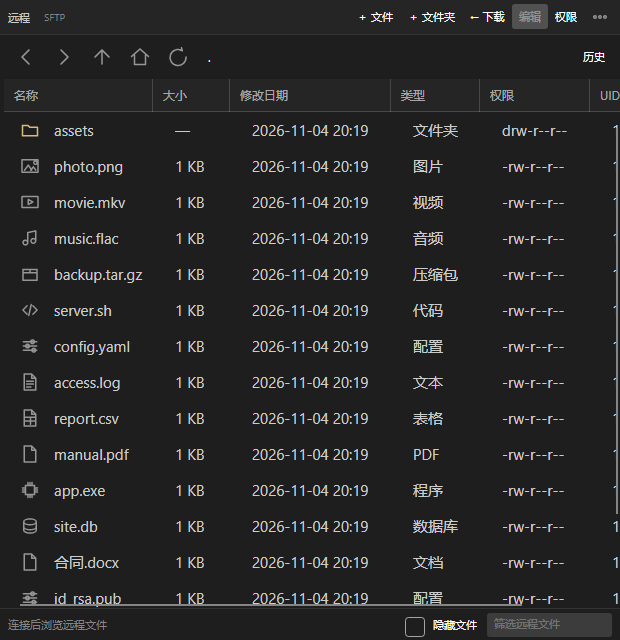
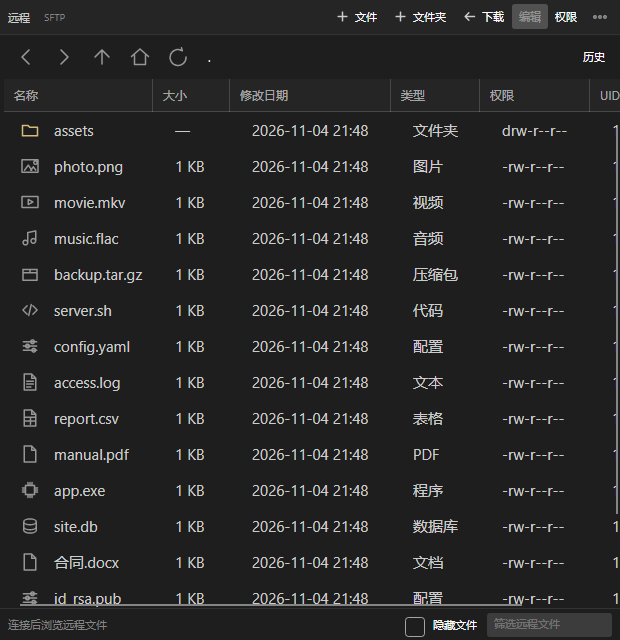
feat: 字体图标全部替换为矢量线条图标，文本编辑器改为非模态标签页

diff --git a/src/ShellX.Desktop/Services/DialogService.cs b/src/ShellX.Desktop/Services/DialogService.cs
@@ -13,6 +13,7 @@ using ShellX.Core.Tunnels;
 using ShellX.Core.Sessions;
 using ShellX.Core.Security;
 using Avalonia.Threading;
+using CommunityToolkit.Mvvm.Input;
 using ShellX.Desktop.Features.Connections;
 using ShellX.Desktop.Features.FileBrowser;
 using ShellX.Desktop.Features.FileEditor;
@@ -242,11 +243,121 @@ public sealed class DialogService(ITextCodec codec, AppLockService? appLock = nu
             FileTypeChoices = [new FilePickerFileType("ShellX 配置（JSON）") { Patterns = ["*.json"] }]
         }))?.TryGetLocalPath();
 
+    private Window? _editorWindow;
+    private TabControl? _editorTabControl;
+    private readonly Dictionary<TabItem, EditorTabState> _editorStates = [];
+
+    private sealed class EditorTabState(TextDocument document, FileEditorViewModel vm, Action detach)
+    {
+        public TextDocument Document { get; } = document;
+        public FileEditorViewModel Vm { get; } = vm;
+        public Action Detach { get; } = detach;
+        public string Name => System.IO.Path.GetFileName(Document.Path);
+    }
+
+    /// <summary>
+    /// 文本编辑器改为非模态标签页：全局只保留一个编辑器窗口，再次点击“编辑文本”直接新增标签。
+    /// 任务在窗口/标签打开后即完成，不再阻塞文件列表继续打开其他文件。
+    /// </summary>
     public async Task EditFileAsync(TextDocument document, Func<TextDocument, string, Task<TextDocument>> save)
     {
         TextEditorLimits.ValidateContent(document.Content);
+        if (_editorWindow is { } existing && existing.IsVisible && _editorTabControl is { } existingTabs)
+        {
+            var opened = _editorStates.FirstOrDefault(pair => Equals(pair.Value.Document.Path, document.Path));
+            if (opened.Value != null) existingTabs.SelectedItem = opened.Key;
+            else AddEditorTab(existing, existingTabs, document, save);
+            await Task.CompletedTask;
+            return;
+        }
+
+        var window = Window("编辑 · " + document.Path, 1050, 720);
+        window.MinWidth = 780;
+        var tabs = new TabControl();
+        window.Content = tabs;
+        _editorWindow = window;
+        _editorTabControl = tabs;
+        AddEditorTab(window, tabs, document, save);
+        tabs.SelectionChanged += (_, _) => ActivateEditorTab(window, tabs);
+
+        var approved = false;
+        window.Closing += async (_, e) =>
+        {
+            if (approved) { DetachEditorTabs(); return; }
+            var dirty = _editorStates.Values.Count(state => state.Vm.IsDirty);
+            if (dirty == 0) { DetachEditorTabs(); return; }
+            e.Cancel = true;
+            var message = dirty == 1
+                ? "关闭将放弃当前文件的未保存修改，是否继续？"
+                : $"有 {dirty} 个文件尚未保存，关闭将放弃这些修改，是否继续？";
+            if (await ConfirmOwnedAsync(window, "未保存的修改", message)) { approved = true; window.Close(); }
+        };
+        window.Closed += (_, _) => { DetachEditorTabs(); _editorWindow = null; _editorTabControl = null; };
+        window.KeyBindings.Add(new KeyBinding
+        {
+            Gesture = new KeyGesture(Key.S, KeyModifiers.Control),
+            Command = new RelayCommand(() => { if (ActiveEditorTab(tabs) is { } state) _ = state.Vm.SaveCommand.ExecuteAsync(null); })
+        });
+        window.Show(DialogOwner); // 非模态：不阻塞调用方，窗口与标签自行管理生命周期
+        await Task.CompletedTask;
+    }
+
+    private EditorTabState? ActiveEditorTab(TabControl tabs)
+        => tabs.SelectedItem is TabItem selected && _editorStates.TryGetValue(selected, out var state)
+            ? state
+            : _editorStates.Values.LastOrDefault();
+
+    private void ActivateEditorTab(Window window, TabControl tabs)
+    {
+        if (ActiveEditorTab(tabs) is not { } state) return;
+        window.Title = "编辑 · " + state.Document.Path;
+        window.DataContext = state.Vm;
+    }
+
+    private void DetachEditorTabs()
+    {
+        foreach (var state in _editorStates.Values.ToArray())
+        {
+            try { state.Detach(); }
+            catch (Exception) { }
+        }
+        _editorStates.Clear();
+    }
+
+    private Control BuildEditorTabHeader(Window window, TabControl tabs, TabItem tab, FileEditorViewModel vm, TextDocument document)
+    {
+        var label = new TextBlock
+        {
+            Text = System.IO.Path.GetFileName(document.Path),
+            VerticalAlignment = VerticalAlignment.Center,
+            MaxWidth = 210,
+            TextTrimming = TextTrimming.CharacterEllipsis
+        };
+        ToolTip.SetTip(label, document.Path);
+        var close = new Button { Padding = new Thickness(4, 2) };
+        close.Classes.Add("flat");
+        close.Content = new StrokeIcon { Symbol = "close", Width = 11, Height = 11 };
+        ToolTip.SetTip(close, "关闭标签");
+        close.Click += async (_, _) =>
+        {
+            if (!_editorStates.TryGetValue(tab, out var state)) return;
+            if (state.Vm.IsDirty && !await ConfirmOwnedAsync(window, "未保存的修改", $"关闭将放弃 {state.Name} 的未保存修改，是否继续？")) return;
+            _editorStates.Remove(tab);
+            try { state.Detach(); }
+            catch (Exception) { }
+            tabs.Items.Remove(tab);
+            if (tabs.Items.Count == 0) window.Close();
+            else ActivateEditorTab(window, tabs);
+        };
+        var panel = new StackPanel { Orientation = Orientation.Horizontal, Spacing = 6 };
+        panel.Children.Add(label);
+        panel.Children.Add(close);
+        return panel;
+    }
+
+    private void AddEditorTab(Window window, TabControl tabs, TextDocument document, Func<TextDocument, string, Task<TextDocument>> save)
+    {
         var vm = new FileEditorViewModel(document, save, codec);
-        var window = Window("编辑 · " + document.Path, 1050, 720); window.MinWidth = 780; window.DataContext = vm;
         var root = new DockPanel();
         var header = new StackPanel { Spacing = 9, Margin = new Thickness(16, 10) };
         var saveRow = new DockPanel { LastChildFill = true };
@@ -312,17 +423,14 @@ public sealed class DialogService(ITextCodec codec, AppLockService? appLock = nu
             if (change.PropertyName == nameof(vm.Content) && input.Text != vm.Content) input.Text = vm.Content;
             if (change.PropertyName == nameof(vm.SelectedSyntax)) input.SyntaxHighlighting = vm.SelectedSyntax.Highlighting;
         };
-        root.Children.Add(input); window.Content = root;
-        window.KeyBindings.Add(new KeyBinding { Gesture = new KeyGesture(Key.S, KeyModifiers.Control), Command = vm.SaveCommand });
-        var approved = false;
-        window.Closing += async (_, e) =>
-        {
-            if (approved || !vm.IsDirty) return;
-            e.Cancel = true;
-            if (await ConfirmOwnedAsync(window, "未保存的修改", "关闭将放弃当前文件的未保存修改，是否继续？")) { approved = true; window.Close(); }
-        };
-        try { await window.ShowDialog(DialogOwner); }
-        finally { if (appLock != null) appLock.SettingsChanged -= ApplyEditorFont; }
+        root.Children.Add(input);
+        var tab = new TabItem { Content = root };
+        tab.Header = BuildEditorTabHeader(window, tabs, tab, vm, document);
+        void Detach() { if (appLock != null) appLock.SettingsChanged -= ApplyEditorFont; }
+        _editorStates[tab] = new EditorTabState(document, vm, Detach);
+        tabs.Items.Add(tab);
+        tabs.SelectedItem = tab;
+        ActivateEditorTab(window, tabs);
     }
     private async Task<bool> ConfirmOwnedAsync(Window owner, string title, string message)
     {

diff --git a/tests/ShellX.Desktop.Tests/FileEditorTests.cs b/tests/ShellX.Desktop.Tests/FileEditorTests.cs
@@ -93,6 +93,51 @@ public sealed class FileEditorTests
         finally { window.Close(); await editing; owner.Close(); Directory.Delete(root, true); }
     }
 
+    [AvaloniaFact]
+    public async Task OpeningAnotherFileAddsATabToTheSameNonModalEditorWindow()
+    {
+        var codec = new TextCodec();
+        var owner = new Window(); owner.Show();
+        var dialog = new DialogService(codec) { Owner = owner };
+        var first = dialog.EditFileAsync(new("/etc/app.conf", "one", 3, DateTime.UtcNow), (document, _) => Task.FromResult(document));
+        var second = dialog.EditFileAsync(new("/etc/nginx.conf", "two", 3, DateTime.UtcNow), (document, _) => Task.FromResult(document));
+        Window? window = null;
+        try
+        {
+            // 非模态：两次打开都在窗口出现后立即完成，不等用户关闭。
+            await first.WaitAsync(TimeSpan.FromSeconds(5));
+            await second.WaitAsync(TimeSpan.FromSeconds(5));
+            window = Assert.Single(owner.OwnedWindows);
+            await Task.Delay(40);
+            var tabs = window.GetVisualDescendants().OfType<TabItem>().ToArray();
+            Assert.Equal(2, tabs.Length);
+            Assert.Contains(window.GetVisualDescendants().OfType<TextBlock>(), t => t.Text == "nginx.conf");
+            Assert.IsType<FileEditorViewModel>(window.DataContext);
+            Assert.EndsWith("nginx.conf", window.Title);
+
+            // 同一个文件再次点击只聚焦已有标签。
+            var third = dialog.EditFileAsync(new("/etc/nginx.conf", "two", 3, DateTime.UtcNow), (document, _) => Task.FromResult(document));
+            await third.WaitAsync(TimeSpan.FromSeconds(5));
+            Assert.Equal(2, window.GetVisualDescendants().OfType<TabItem>().Count());
+
+            if (Environment.GetEnvironmentVariable("SHELLX_PREVIEW_PATH") is { Length: > 0 } preview)
+            {
+                await Task.Delay(50);
+                using var bitmap = new RenderTargetBitmap(new PixelSize((int)window.Bounds.Width, (int)window.Bounds.Height), new Vector(96, 96));
+                bitmap.Render(window);
+                bitmap.Save(Path.Combine(Path.GetDirectoryName(preview)!, "editor-tabs.png"), PngBitmapEncoderOptions.Default);
+            }
+            // 关闭窗口即结束，不再残留编辑器窗口。
+            window.Close();
+            await Task.Delay(40);
+            Assert.Empty(owner.OwnedWindows);
+        }
+        finally
+        {
+            foreach (var owned in owner.OwnedWindows.ToArray()) owned.Close();
+            owner.Close();
+        }
+    }
     [AvaloniaTheory]
     [InlineData("/app/config.json", "{\"name\":\"value\",\"count\":12,\"ok\":true}", "JSON", "Property", "String", "Keyword", "Number")]
     [InlineData("/app/config.xml", "<root name=\"value\"><child>text</child></root>", "XML", "Keyword", "Property", "String")]

diff --git a/src/ShellX.Desktop/Controls/StrokeIcon.cs b/src/ShellX.Desktop/Controls/StrokeIcon.cs
@@ -28,6 +28,21 @@ public class StrokeIcon : Control
         ["home"] = "M3.5,11.5 L12,4 L20.5,11.5 M6.5,10 V19.5 H17.5 V10",
         ["refresh"] = "M20,12 A8,8 0 1,1 16.2,5.7 M15.4,2.7 L16.4,5.8 L13.2,4.7",
         ["flow"] = "M8,18 V7 M4.5,10.5 L8,7 L11.5,10.5 M16,6 V17 M12.5,13.5 L16,17 L19.5,13.5",
+        ["folder"] = "M3,6.5 H9.5 L11.8,8.8 H21 V19 H3 Z",
+        ["tunnel"] = "M3,7 H16 M13,4 L16,7 L13,10 M21,17 H8 M11,14 L8,17 L11,20",
+        ["power"] = "M12,2.5 V11 M6.3,6.3 A8,8 0 1 0 17.7,6.3",
+        ["maximize"] = "M4,9 V4 H9 M15,4 H20 V9 M20,15 V20 H15 M9,20 H4 V15",
+        ["duplicate"] = "M8,8 H20 V20 H8 Z M16,16 V4 H4 V16",
+        ["close"] = "M6,6 L18,18 M18,6 L6,18",
+        ["settings"] = "M7.4,12 A4.6,4.6 0 1 0 16.6,12 A4.6,4.6 0 1 0 7.4,12 Z M10.2,12 A1.8,1.8 0 1 0 13.8,12 A1.8,1.8 0 1 0 10.2,12 Z M16.6,12 H18.9 M15.3,15.3 L16.9,16.9 M12,16.6 V18.9 M8.7,15.3 L7.1,16.9 M7.4,12 H5.1 M8.7,8.7 L7.1,7.1 M12,7.4 V5.1 M15.3,8.7 L16.9,7.1",
+        ["plus"] = "M12,5 V19 M5,12 H19",
+        ["download"] = "M20,12 H5 M11,6 L5,12 L11,18",
+        ["upload"] = "M4,12 H19 M13,6 L19,12 L13,18",
+        ["disk"] = "M3,7 H21 V17 H3 Z M3,11 H21 M6,14 H9",
+        ["layout"] = "M4,4 H20 V20 H4 Z M4,12 H20 M12,4 V20",
+        ["connections"] = "M4,5 H20 V11 H4 Z M4,13 H20 V19 H4 Z M7,8 H9 M7,16 H9",
+        ["down"] = "M5,12 L12,19 L19,12 M12,19 V5",
+        ["chevron-down"] = "M5,9 L12,16 L19,9",
         ["more"] = "M6,12 m-1.5,0 a1.5,1.5 0 1,0 3,0 a1.5,1.5 0 1,0 -3,0 M12,12 m-1.5,0 a1.5,1.5 0 1,0 3,0 a1.5,1.5 0 1,0 -3,0 M18,12 m-1.5,0 a1.5,1.5 0 1,0 3,0 a1.5,1.5 0 1,0 -3,0"
     };
     private static readonly Dictionary<string, Geometry> Cache = new(StringComparer.Ordinal);

diff --git a/src/ShellX.Desktop/Features/FileBrowser/DirectoryNodeViewModel.cs b/src/ShellX.Desktop/Features/FileBrowser/DirectoryNodeViewModel.cs
@@ -14,9 +14,14 @@ public partial class DirectoryNodeViewModel(string name, string path,
     public ObservableCollection<DirectoryNodeViewModel> Children { get; } = [];
     [ObservableProperty] private bool _isExpanded;
     [ObservableProperty] private bool _isLoading;
-    public string ExpanderText => IsLoading ? "…" : IsExpanded ? "⌄" : "›";
-    partial void OnIsExpandedChanged(bool value) => OnPropertyChanged(nameof(ExpanderText));
-    partial void OnIsLoadingChanged(bool value) => OnPropertyChanged(nameof(ExpanderText));
+    // 展开箭头改用线条图标；加载中仍显示省略号。
+    public bool ShowCollapsedIcon => !IsLoading && !IsExpanded;
+    public bool ShowExpandedIcon => !IsLoading && IsExpanded;
+    public bool ShowLoadingText => IsLoading;
+    partial void OnIsExpandedChanged(bool value)
+    { OnPropertyChanged(nameof(ShowCollapsedIcon)); OnPropertyChanged(nameof(ShowExpandedIcon)); }
+    partial void OnIsLoadingChanged(bool value)
+    { OnPropertyChanged(nameof(ShowLoadingText)); OnPropertyChanged(nameof(ShowCollapsedIcon)); OnPropertyChanged(nameof(ShowExpandedIcon)); }
 
     [RelayCommand]
     private async Task ToggleAsync()

diff --git a/src/ShellX.Desktop/Features/Transfers/TransferViewModel.cs b/src/ShellX.Desktop/Features/Transfers/TransferViewModel.cs
@@ -10,6 +10,9 @@ public partial class TransferViewModel(string name, string direction, long total
     private long _total = total;
     public string Name => name;
     public string Direction => direction;
+    // 传输方向用线条图标显示，标签去掉箭头字符（原来的方向文字是字体图标）。
+    public string DirectionIcon => direction.StartsWith('↑') ? "upload" : "download";
+    public string DirectionLabel => direction.Length > 1 && direction[0] is '↑' or '↓' ? direction[2..] : direction;
     public CancellationToken Token => _cancel.Token;
     [ObservableProperty] private double _percent;
     [ObservableProperty] private string _status = "等待中";

diff --git a/docs/verification.md b/docs/verification.md
@@ -405,3 +405,25 @@ bash: -c: line 21: syntax error near unexpected token `$'do\r''
 - SSH 夹具全量：`python tests/fixtures/ssh_server.py artifacts/ssh-fixture` 后带 `SHELLX_TEST_FIXTURE` 运行，**ShellX.Infrastructure.Tests 65 项全部通过**，覆盖双向转发字节回环、多监听端口对同一目标（要求精确连接数，验证中转不产生后台连接）、监听冲突、传输恢复、编辑/停止释放端口。
 - 夹具运行中 Desktop 有2项失败：`ConnectionTestTests.NewConnectionCanTestUnsavedForm…` 在**改动前的 HEAD（v1.0.5）同样失败**（同一行、同一断言），属既有问题与本次改动无关；`WorkspaceTests.RightClickEditsTheClickedLocalAndRemoteFile` 单独重跑通过（并发夹具负载下的偶发）。
 - 图标预览：`SHELLX_PREVIEW_PATH` 渲染 `artifacts/preview/file-icons-remote.png`、`file-icons-local.png`，工具栏与文件列表图标逐个核对；流量图标 `artifacts/preview/flow-icon.jpg`。隧道行的流量徽标未做真机截图（需要真实隧道跑流量），仅做了 XAML 编译与单元断言。
+## 字体图标全面替换与非模态标签编辑器（2026-11-04）
+
+### 图标
+
+- `StrokeIcon` 符号表补齐：`folder`、`tunnel`、`power`、`maximize`、`duplicate`、`close`、`settings`、`plus`、`download`、`upload`、`disk`、`layout`、`connections`、`down`、`chevron-down`（沿用既有的 `back/forward/up/home/refresh/more/flow`）。
+- 替换位置：终端工具栏 `⇄ ↻ ⏻ ▣ ⋯`、连接标签状态点 `●`→`Ellipse`、标签关闭 `×`、主窗口 `＋ / ▦ / ⚙` 与连接管理按钮、连接管理器齿轮与文件夹、文件面板 `磁盘 / ＋文件夹 / ＋文件 / ←下载 / 上传→`、传输方向 `↑ ↓`、目录树文件夹 `▰` 与展开箭头 `› ⌄`、监控刷新 `↻` 与网络 `↑ ↓`、面板关闭 `×`、快捷命令 `＋ 添加`、新建隧道 `＋`。
+- 保留**文本内容**中的箭头与分隔符（快捷键提示 `Alt+↑/↓`、排序表头 `CPU ↓`、菜单文案“下载到左侧目录 ←”、传输源数据里的方向字符、密码掩码 `●`），它们属于文字而非图标。
+- 齿轮初版是“圆 + 辐条”，在 18px 下更像太阳，改为齿 + 双圈后按连接管理器截图放大核对为标准齿形。
+
+### 文本编辑器：非模态标签页
+
+- `IDialogService.EditFileAsync` 签名不变；实现改为**单窗口多标签**：`window.Show(DialogOwner)` 非模态，任务在标签打开后立即完成，因此文件列表不会被编辑器占用，可继续打开其他文件。
+- 再次点击“编辑文本”：同路径文件聚焦已有标签；新文件新增标签（标签头为文件名 + 线条 `×`）。
+- 标签 `×` 关闭前对未保存内容确认；关闭窗口时若多个文件未保存，统一提示“有 N 个文件尚未保存”；`Ctrl+S` 保存当前标签；`window.Title` 与 `DataContext` 跟随当前标签（保持既有测试契约）。
+- 每个标签独立的 `FileEditorViewModel`、编码/语法选择、保存状态与字体订阅（关闭标签时取消 `AppLockService.SettingsChanged` 订阅，避免泄漏）。
+
+### 验证
+
+- 无夹具全量：`dotnet build` 0 警告 0 错误；`dotnet test ShellX.slnx -c Release` → Core 49 / Infra 47（18 跳过）/ Desktop 79（12 跳过）全绿。
+- 新增测试 `FileEditorTests.OpeningAnotherFileAddsATabToTheSameNonModalEditorWindow`：两次打开只产生 1 个窗口、2 个标签、打开即完成、重复打开同文件不新增标签、关闭窗口后无残留。
+- 带 SSH 夹具全量：Desktop 89 通过 / 2 失败——`ConnectionTestTests.NewConnectionCanTest…` 在改动前的 HEAD（v1.0.5）同样失败，属既有问题；`McpLogLayoutTests.LongMcpLog…` 为偶发，单独重跑通过。
+- 图标与标签页截图（`SHELLX_PREVIEW_PATH` 渲染）：`workspace-dark.png`、`file-icons-remote.png`、`file-icons-local.png`、`connection-manager.png`、`shared-monitor-tabs.png`、`editor-tabs.png`，并对工具栏、文件面板按钮、齿轮做了局部放大核对。
